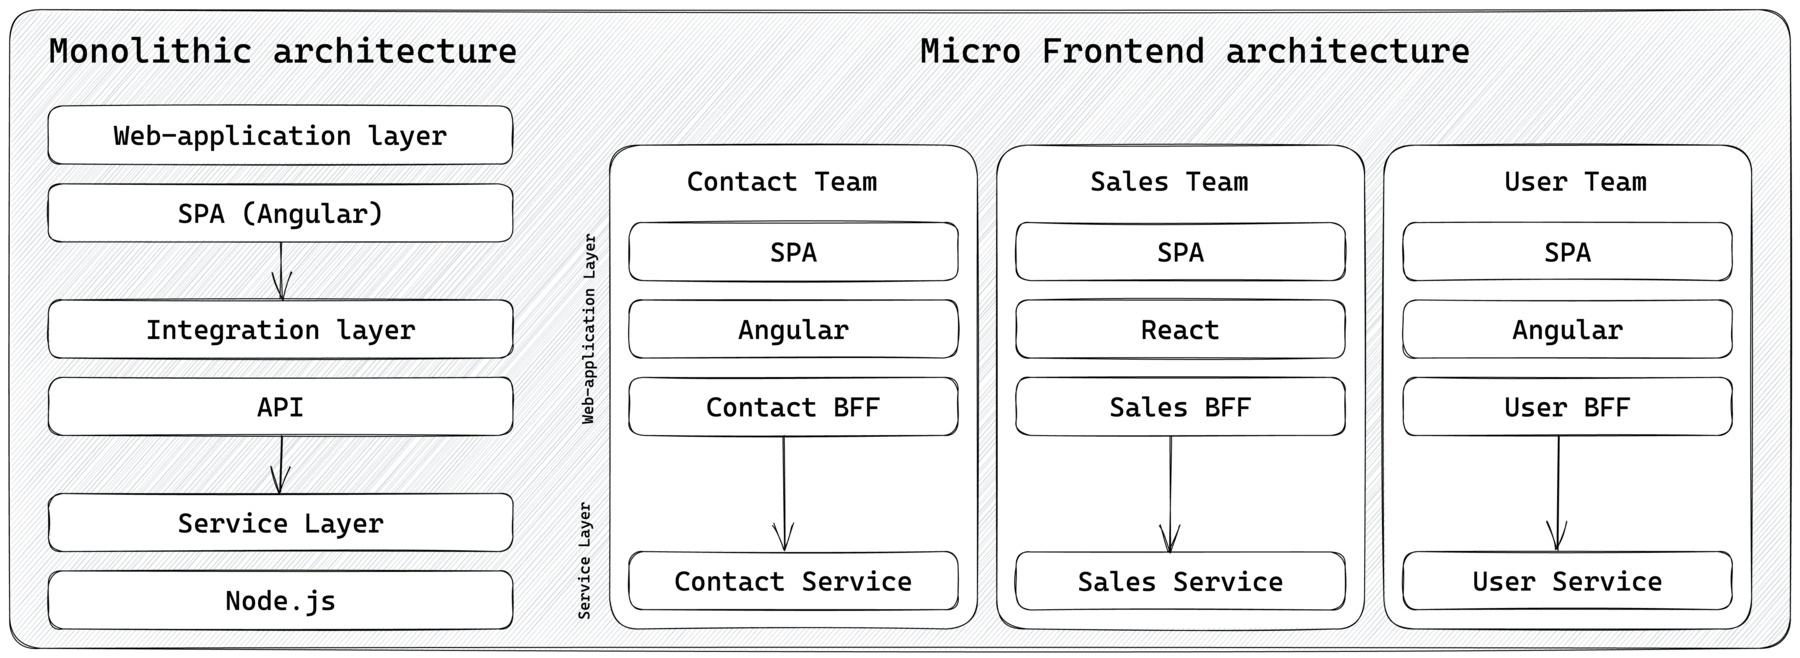
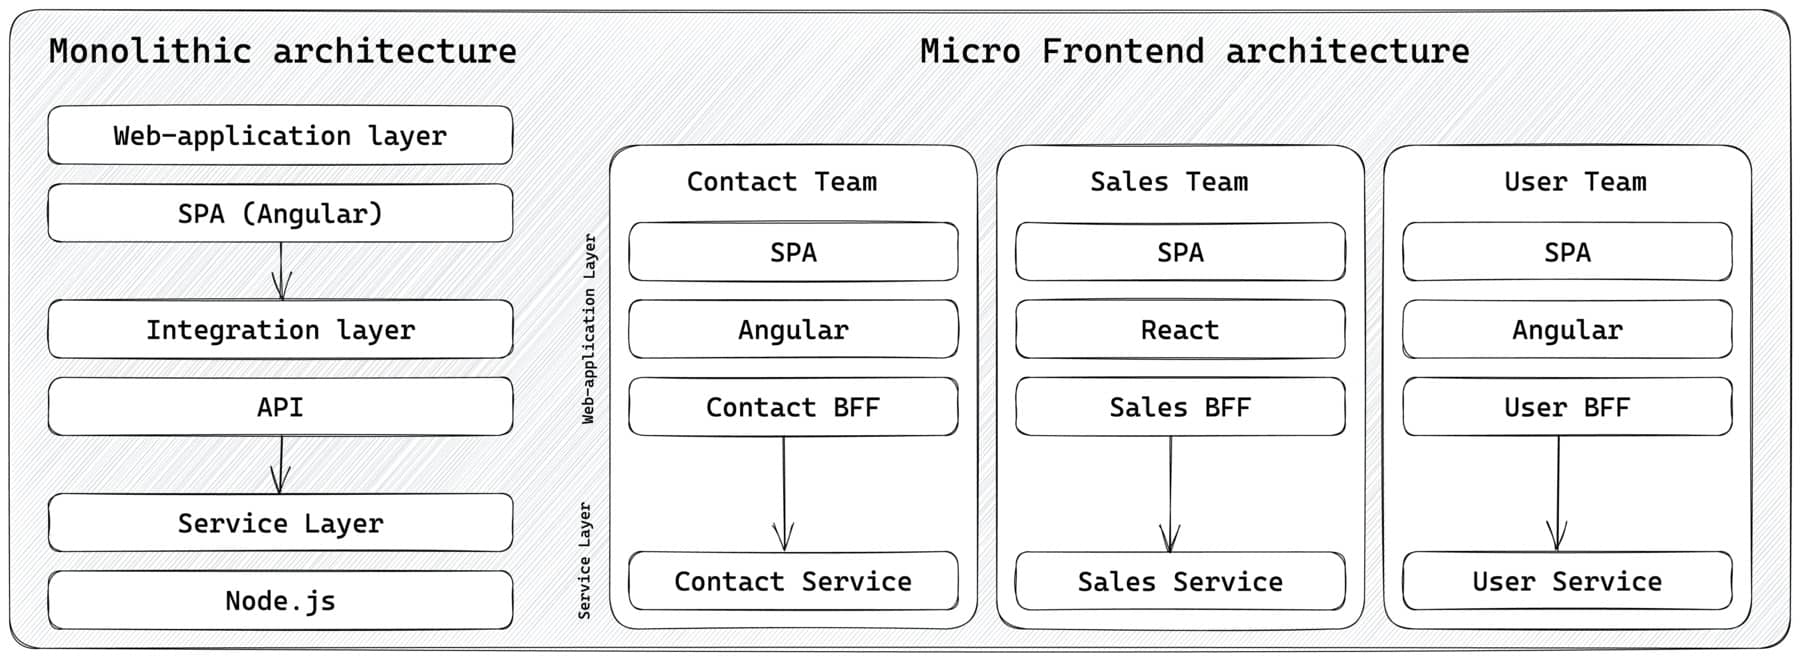
reduce image size

diff --git a/chapters/applied-methods/prototypical-implementation.tex b/chapters/applied-methods/prototypical-implementation.tex
@@ -13,7 +13,7 @@ A prototypical micro-frontend architecture was implemented to evaluate the resea
 \ifshowImages
 \begin{figure}[H]
     \centering
-    \includegraphics[width=1\linewidth]{images/applied-methods/prototypical-implementation/host-architecture.png}
+    \includegraphics[width=1\linewidth]{images/applied-methods/prototypical-implementation/host-architecture.jpg}
     \caption{The architecture of the micro-frontend prototype.}\label{fig:applied-methods:prototype-micro-frontend-architecture}
 \end{figure}
 \fi
